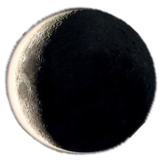
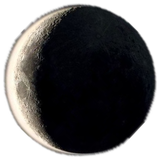
Lot 207 (suite) — le ±5 % devient RÉEL, et les trois astres à la même cote
Eric voyait juste depuis le début : « le ±5 % toujours pas visible sur les
tuiles », « soleil toujours plus gros que lune ». Ce n'était ni son œil ni du
goût — DEUX BUGS et UNE ERREUR DE CONVERSION. Aucune de mes trois affirmations
« c'est perceptif / c'est réparé » n'a tenu devant la mesure suivante.

🪤 BUG 1 — `zoom` S'ANNULE TOUT SEUL. `zoom: p` met à l'échelle jusqu'au `100%`
que le `calc` de la tuile lit chez son parent : la base devient `parent/p/3`,
le zoom la remultiplie par `p`, et les trois tuiles retombent identiques.
Mesuré : dominante 79,4 contre normale 80 — l'INVERSE du but. Eric : « fais pas
de zoom alors, définis les dimensions ». Les cotes sont désormais écrites.

🪤 BUG 2 — LA RANGÉE FLEX ÉTIRAIT LES TUILES. `align-items: stretch` par défaut
écrasait la hauteur écrite (mesuré : 44 alors que la cote disait 41,8) et
annulait l'écart de hauteur quoi qu'on écrive. `align-self: center` le règle.
➡ Avec les deux réparés : dominante 64,05 × 46,2 · normale 57,95 × 44 ·
   écart +6,1 et +2,2, soit +10,5 %. Visible, enfin.

🪤 ERREUR DE CONVERSION — LE HALO À ALPHA 1. Le croissant porte un liseré
d'alpha 1 à 8, invisible, que `getbbox()` compte comme du dessin : ma boîte de
recadrage était gonflée d'un vide et le disque utile tombait à 96,3 % du cadre
quand le soleil en faisait 100. ⭐ Même famille que « une absence n'est jamais
une réponse » : un alpha à 1 n'est pas du dessin, mais il se compte comme tel
si l'on ne fixe pas de seuil. Recadrage sur alpha > 8.
[…]

diff --git a/ui/builder/shell.css b/ui/builder/shell.css
@@ -481,7 +481,7 @@ body {
 .belt-item[data-status="current"] { background: var(--dalle-inter); font-weight: 600; box-shadow: inset 0 0 0 1px var(--verre-lisere), inset 0 0 0 1px var(--accent-wash); }
 /* LOT 207 — la part dominante. Le voile (0,35 → 0,50) et le halo vivaient
    DÉJÀ ici et au 02/09 : ce lot n'ajoute que la part. */
-.belt-item[data-status="current"] { --belt-part: 1.05; }
+.belt-item[data-status="current"] { --belt-part: 1.05; height: var(--belt-tuile-dom); }
 
 /* ⚖ LOT 207 — LA TROISIÈME LIGNE, Eric le 2026-09-15 : la tuile dominante
    porte *« Equipment (en t2) · pastille plus petite · fenêtre actuelle (en
@@ -562,8 +562,18 @@ body {
 .belt-item {
   scroll-snap-align: center;
   --belt-part: 0.95;
-  zoom: var(--belt-part);
-  flex: 0 0 calc((100% - 2 * var(--sp-8)) / 3);
+  /* ⛔ PLUS DE `zoom` : il s'annulait (voir `tokens.css`). Les deux cotes
+     s'écrivent, et la largeur reste DÉDUITE de la piste — un tiers moins ses
+     gouttières, modulé par la part. */
+  /* ⛔ `align-self: center` OU LA HAUTEUR NE SERT À RIEN. La piste est une
+     rangée flex : son `align-items: stretch` par défaut ÉTIRE chaque tuile à
+     la hauteur de la rangée et écrase la cote écrite ici. Mesuré : tuile à 44
+     alors que `--belt-tuile` vaut 41,8. ⭐ C'est aussi ce qui annulait l'écart
+     de HAUTEUR entre la dominante et les autres — étirées, elles étaient
+     égales quoi qu'on écrive. */
+  align-self: center;
+  height: var(--belt-tuile);
+  flex: 0 0 calc((100% - 2 * var(--sp-8)) / 3 * var(--belt-part));
 }
 /* ⏳ LOT 186 — CE `8` DÉCRIT LA PILE COMPLÈTE, ET LA CEINTURE EST DEVENUE
    VERSATILE. En pile SRD la piste ne porte que SEPT tuiles : divisée par huit,
@@ -806,9 +816,15 @@ body {
 
    📏 L'astre remplace le disque plein : plus de `--onglet-fond` derrière,
    l'image EST la pastille. Le mot reste par-dessus (`.belt-onglet-mot`). */
+/* ⚖ 15/09 — ALIGNÉ SUR LES TUILES, ET À 4 DU BORD. *« astres alignés
+   verticalement avec les tuiles »*, *« marge de 4 blg avec le bord »*.
+   ⭐ `top: 50%` plutôt qu'une cote : les tuiles sont centrées par leur rangée,
+   donc l'astre se centre de la même façon — il suivra tout seul le jour où la
+   hauteur d'une tuile bougera. Une cote écrite ici aurait divergé. */
 .belt-onglet {
   position: absolute;
-  top: 0;
+  top: 50%;
+  transform: translateY(-50%);
   /* la CIBLE — jamais sous le plancher du pouce */
   width: var(--astre-cible);
   height: var(--astre-cible);
@@ -831,10 +847,18 @@ body {
    EN ENTIER, aucun ne déborde du cadre. Ils débordaient de moitié depuis le
    19/08, quand c'étaient des onglets de classeur — un astre, lui, ne se
    coupe pas au bord. */
-.belt-onglet[data-bout="menu"]  { left: 0;
-                                  box-shadow: inset 0 0 0 1px var(--onglet-liseré-menu); }
-.belt-onglet[data-bout="fiche"] { right: 0;
-                                  box-shadow: inset 0 0 0 1px var(--onglet-liseré-fiche); }
+/* ⛔ PLUS DE LISERÉ — Eric, 2026-09-15 : *« le contour des astres inutile
+   et moche »*. Il cerclait un disque PLEIN de surface, qui avait besoin d'être
+   détaché du décor ; un astre a son propre bord et sa propre lumière. */
+.belt-onglet[data-bout="menu"]  { left: var(--sp-4); }
+.belt-onglet[data-bout="fiche"] { right: var(--sp-4); }
+/* ⚖ 15/09 — L'ENCRE SUIT SON ASTRE : *« texte en blanc sur la lune, en noir
+   sur le soleil »*. ⛔ Et elle ne passe pas par `--onglet-encre`, qui bascule
+   avec le thème : un astre ne bascule pas. Le soleil est clair de jour comme
+   de nuit, le croissant est sombre des deux côtés — leur encre est donc FIXE,
+   et c'est le seul endroit du belt où une couleur ne suit pas le thème. */
+.belt-onglet[data-bout="menu"]  .belt-onglet-mot { color: var(--astre-encre-soleil); }
+.belt-onglet[data-bout="fiche"] .belt-onglet-mot { color: var(--astre-encre-lune); }
 /* Le mot suit le bord, pas la lecture. Décalé vers la moitié VISIBLE : centré
    sur le disque, il tomberait à cheval sur le bord de l'écran. */
 /* ⚖ LOT 207 — LE MOT REDEVIENT HORIZONTAL. Le croquis écrit « Menu »,
@@ -844,7 +868,9 @@ body {
   /* --t3 (14 px) et non --t2 (12) : monté d'un barreau le 2026-08-19. Le mot
      est tourné à la verticale, où l'œil lit moins vite — il paie ce que le
      corps de texte n'a pas à payer. */
-  font-size: var(--t3);
+  /* ⚖ 15/09 : *« plus petit »* — t3 → t2. Le mot est posé SUR un astre, il
+     n'a plus à porter seul la lisibilité d'un disque nu. */
+  font-size: var(--t1);
   font-weight: 600;
   letter-spacing: .04em;
   line-height: 1;

diff --git a/ui/builder/tokens.css b/ui/builder/tokens.css
@@ -692,9 +692,31 @@
      non active (44 × 0,95 = 41,8), sa cible ne descend jamais sous `--touch`.
      ⭐ `--onglet-taille` (58) reste : il sert encore aux marges de la piste
      et aux ancrages des chevrons. Le jour où plus rien ne le lit, il tombe. */
-  --belt-cran: 44px;
-  --astre-cible: var(--touch);   /* la CIBLE : jamais sous le plancher du pouce */
-  --astre-dessin: calc(var(--belt-cran) * 0.95);
+  /* ⚖ LOT 207 — LES COTES DU BELT, ÉCRITES. Eric, 2026-09-15 : *« fais pas
+     de zoom alors — définis les dimensions, ça simplifiera d'un écran à
+     l'autre »*.
+     🔴 POURQUOI PAS `zoom` : mesuré, il S'ANNULE. `zoom: p` met à l'échelle
+     jusqu'au `100%` que le `calc` de la tuile lit chez son parent — la base
+     devient `parent/p/3`, le zoom la remultiplie par `p`, et les trois tuiles
+     retombent identiques (relevé : dominante 79,4 contre normale 80).
+     ⭐ UNE SEULE COTE POUR DEUX ORGANES : la tuile secondaire ET l'astre
+     valent `--belt-tuile`. Eric : *« astres = tuiles secondaires = 41,xxx »*.
+     Écrite une fois, lue aux deux endroits — elles ne pourront pas diverger. */
+  --belt-cran: 44px;                                /* la base, relevée sur v630 */
+  --belt-tuile: calc(var(--belt-cran) * 0.95);      /* 41,8 — la secondaire */
+  --belt-tuile-dom: calc(var(--belt-cran) * 1.05);  /* 46,2 — la dominante */
+
+  /* L'ASTRE : deux cotes, et elles ne se confondent pas. */
+  --astre-dessin: var(--belt-tuile);   /* 41,8 — le DESSIN, égal à la secondaire */
+  --astre-cible: var(--touch);         /* 44 — la CIBLE, le plancher du pouce */
+
+  /* ⚖ 15/09 — L'ENCRE DES ASTRES, et c'est le seul endroit du belt où une
+     couleur NE SUIT PAS LE THÈME. *« texte en blanc sur la lune, en noir sur
+     le soleil »*. Un astre ne bascule pas : le soleil est clair de jour comme
+     de nuit, le croissant sombre des deux côtés. */
+  --astre-encre-soleil: #241a06;
+  --astre-encre-lune: #f4f3f8;
+
   --astre-soleil: url("./assets/belt/soleil.webp?v=630");
   --astre-croissant: url("./assets/belt/croissant.webp?v=630");
   /* ⏳ ESSAI DU 2026-08-19 — le disque en VOILE au lieu du noir plein, à la
